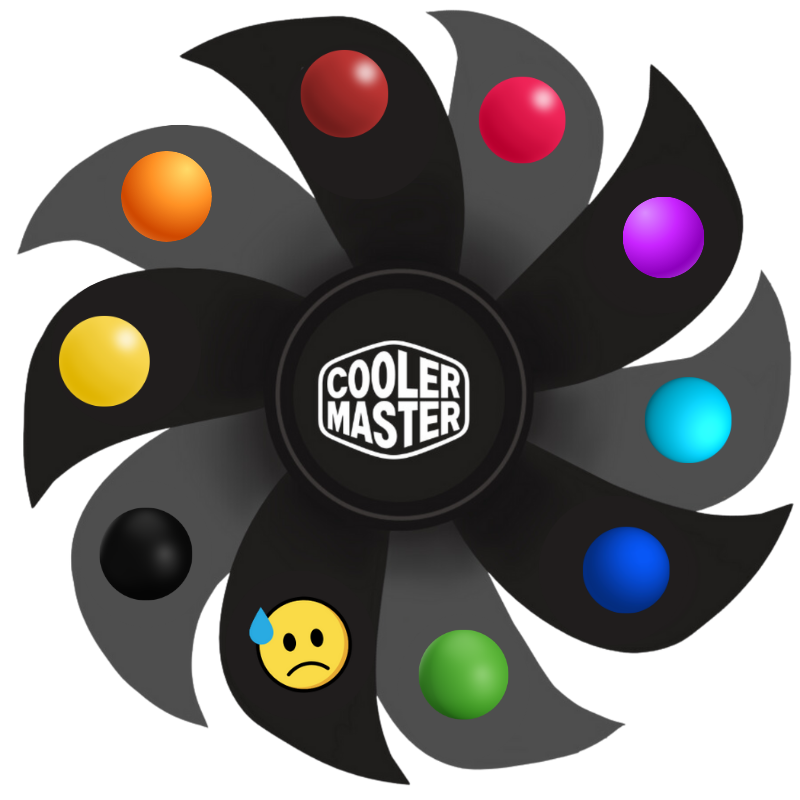
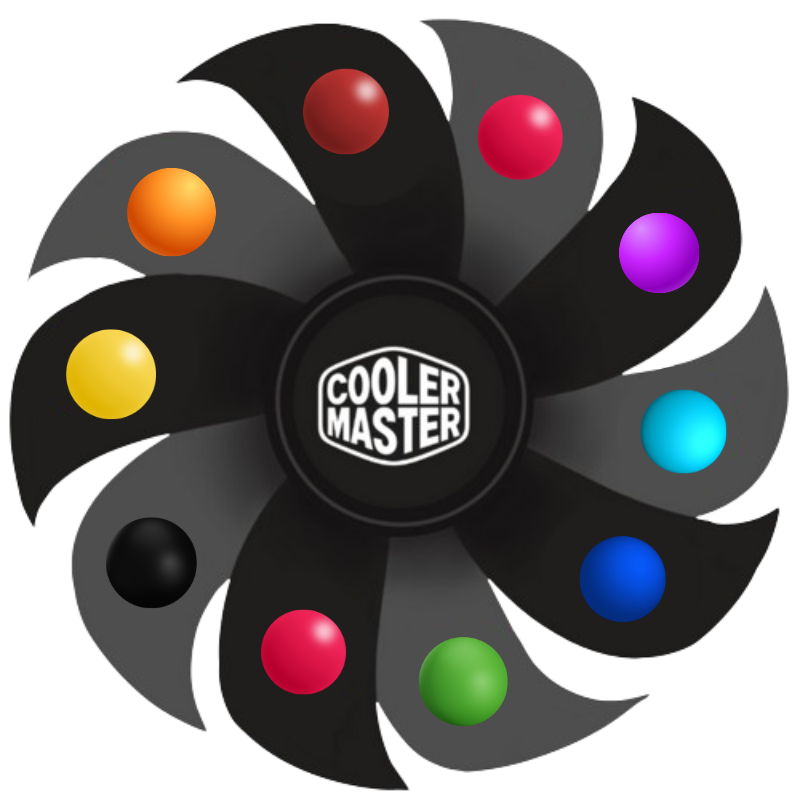
atualização

diff --git a/index.html b/index.html
@@ -388,7 +388,7 @@
           2: "#2\nParabéns! Você ganhou uma Camiseta Exclusiva Cooler Master!",
           3: "#3\nParabéns! Você ganhou um ML240MLCore Preto",
           4: "#4\nParabéns! Você ganhou uma Cadeira Gamer!",
-          5: "#5\nPoxa! Não foi dessa vez!",
+          5: "#5\nParabéns! Você ganhou um Bottom Exclusivo!",
           6: "#6\nParabéns! Você ganhou um Gabinete NR200P V2 Branco",
           7: "#7\nParabéns! Você ganhou um Mouse CM110",
           8: "#8\nParabéns! Você ganhou um Cordão Exclusivo Cooler Master",
@@ -523,9 +523,9 @@
       const resultDiv = document.createElement('div');
       resultDiv.textContent = result;
 
-      if (result === "#5\nPoxa! Não foi dessa vez!") {
+      if (result === "#5\nParabéns! Você ganhou um Bottom Exclusivo!") {
         const img = document.createElement('img');
-        img.src = 'assets/sad.png';
+        img.src = 'assets/bottom (1).png';
         resultDiv.style.display = 'flex';
         resultDiv.style.justifyContent = 'center';
         resultDiv.style.alignItems = 'center';
